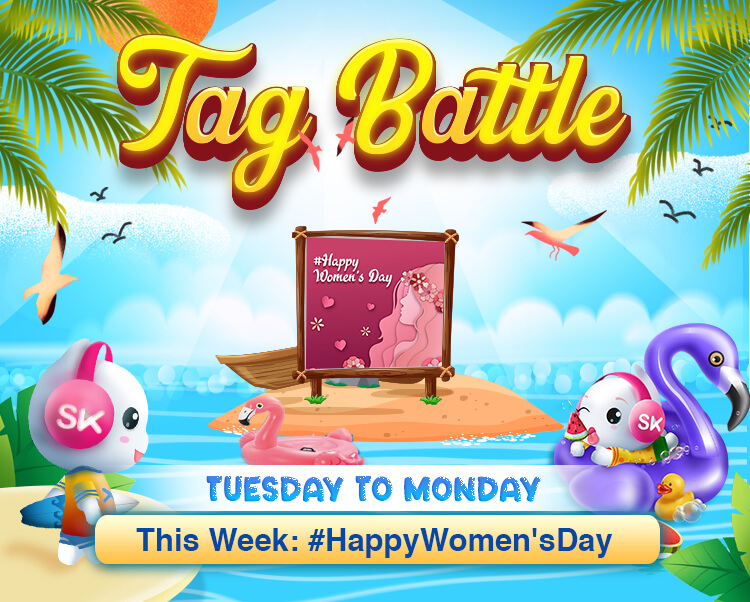
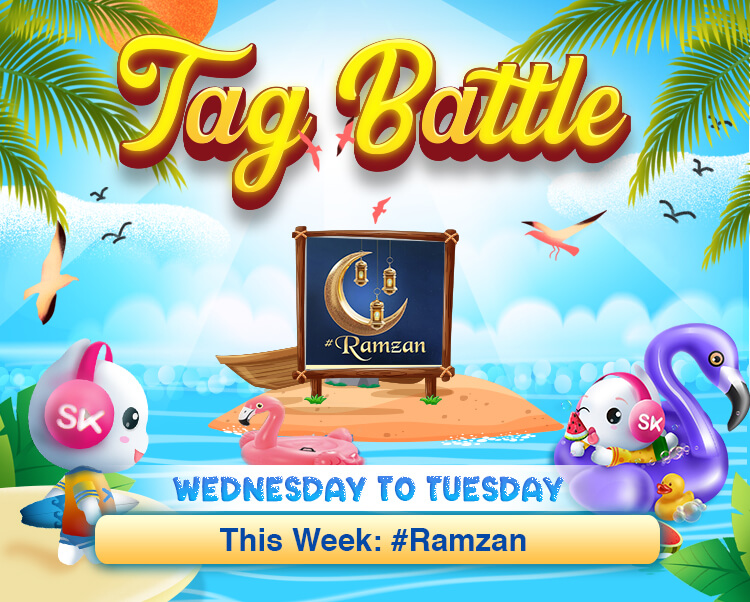
tagbattle for april has been updated

Changed region(s): [[0.3987, 0.3887, 0.6133, 0.6279], [0.184, 0.8671, 0.828, 0.9269], [0.2147, 0.7774, 0.7667, 0.8372]]

diff --git a/index.html b/index.html
@@ -110,14 +110,12 @@
 
     <!-- Tabs -->
     <section class="col-four nav">
-        <div><button class="btn-nav active-btn" id="ootdTab" onclick="navChange(event,'ootd')">#HappyWomen'sDay <br>5th
-                March to 11th March</button></div>
-        <div><button class="btn-nav " id="foodieTab" onclick="navChange(event,'foodie')">#HBDAtifAslam <br>12th March to
-                18th March</button></div>
+        <div><button class="btn-nav active-btn" id="ootdTab" onclick="navChange(event,'ootd')">#Ramzan<br>3rd  April to 9th April </button></div>
+        <div><button class="btn-nav " id="foodieTab" onclick="navChange(event,'foodie')">#MeethiEid2024<br>10th April to 16th April</button></div>
         <div><button class="btn-nav " id="streamkarcolTab" onclick="navChange(event,'streamkarcol')">
-                #Colorfest<br>19th March to 25th March</button></div>
+                #OddlySatisfying<br>17th April to 23rd April</button></div>
         <div><button class="btn-nav" id="travelphotographyTab"
-                onclick="navChange(event,'travelphotography')">#Easter2024<br>26th March to 1st April</button></div>
+                onclick="navChange(event,'travelphotography')">#HBDVarunDhawan<br>24th April to 30th April</button></div>
     </section>
     <!-- End Tabs -->
 
@@ -355,10 +353,10 @@
         //todayDate = 29;
         console.log("Today is " + todayDate);
 
-        if (todayDate <= 11 && m == 3) {
+        if (todayDate <= 9 && m == 4) {
             navChange(event, "ootd");
-            topicId = '864127';
-            topicTitle = "#HappyWomen'sDay";
+            topicId = '864527';
+            topicTitle = "#Ramzan";
             //  window.phone._customActivity(window.phone.ACTIVITIES.TOPICACTIVITY, ['topicId', 'topicTitle'], ['828836', '#FlowerDay']);
             $('#header_pic').attr('src', 'img/1.png');
             $('#ootdTab').addClass("active-btn");
@@ -367,8 +365,8 @@
             $('#travelphotographyTab').prop('disabled', 'disabled');
             $('#simple_timer').syotimer({
                 year: 2024,
-                month: 3,
-                day: 11,
+                month: 4,
+                day: 9,
                 hour: 25,
                 minute: 0,
                 timeZone: 1
@@ -376,51 +374,51 @@
             });
 
         } else
-            if (todayDate >= 12 && todayDate <= 18 && m == 3) {
+            if (todayDate >= 10 && todayDate <= 16 && m == 4) {
 
                 navChange(event, "foodie");
-                topicId = '864128';
-                topicTitle = "#HBDAtifAslam";
+                topicId = '864528';
+                topicTitle = "#MeethiEid2024";
                 $('#header_pic').attr('src', 'img/2.png');
                 $('#foodieTab').addClass("active-btn");
                 $('#streamkarcolTab').prop('disabled', 'disabled');
                 $('#travelphotographyTab').prop('disabled', 'disabled');
                 $('#simple_timer').syotimer({
                     year: 2024,
-                    month: 3,
-                    day: 18,
+                    month: 4,
+                    day: 16,
                     hour: 25,
                     minute: 0,
                     timeZone: 1
 
                 });
-            } else if (todayDate >= 19 && todayDate <= 25 && m == 3) {
+            } else if (todayDate >= 17 && todayDate <= 23 && m == 4) {
                 navChange(event, 'streamkarcol')
-                topicId = '864129';
-                topicTitle = "#Colorfest";
+                topicId = '864529';
+                topicTitle = "#OddlySatisfying";
                 $('#header_pic').attr('src', 'img/3.png');
                 $('#streamkarcolTab').addClass("active-btn");
                 $('#travelphotographyTab').prop('disabled', 'disabled');
                 $('#simple_timer').syotimer({
                     year: 2024,
-                    month: 3,
-                    day: 25,
+                    month: 4,
+                    day: 23,
                     hour: 25,
                     minute: 0,
                     timeZone: 1
 
                 });
             }
-            else if ((todayDate >= 26 && m == 3) || (todayDate === 1 && m == 4)) {
+            else if (todayDate >= 24 && todayDate <= 30 && m == 4) {
                 navChange(event, 'travelphotography')
                 topicId = '864130';
-                topicTitle = "#Easter2024";
+                topicTitle = "#HBDVarunDhawan";
                 $('#header_pic').attr('src', 'img/4.png');
                 $('#travelphotographyTab').addClass("active-btn");
                 $('#simple_timer').syotimer({
                     year: 2024,
                     month: 4,
-                    day: 1,
+                    day: 30,
                     hour: 25,
                     minute: 0,
                     timeZone: 1
